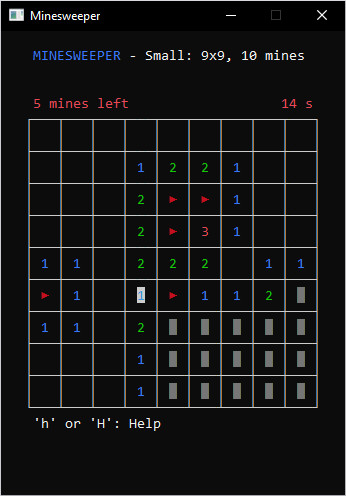
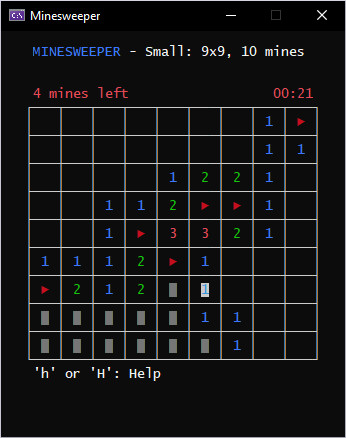
changed format of timer to 00:00

diff --git a/src/game.cpp b/src/game.cpp
@@ -212,20 +212,17 @@ Common::GameModeReturnStruct Game::chooseGamemode()
             if (hasCheated == false && doPauseTimer == false)
             {
                 isTimerPrinting = true;
-                if (timer % 20 == 0 || timer == 0 || doPrintTimer == true)
+                Common::TimeStruct time;
+                time = common.secondsToTimeStruct(timer / 10);
+                if (timer % 10 == 0 || timer == 0 || doPrintTimer == true)
                 {
-                    if (timer / 20 < 10)
-                        common.gotoXY(field->getOffsetX() + (field->getCols() * (((field->getCellWidth() - 1) / 2) * 2 + 2)) - 5, field->getOffsetY() - 2);
-                    else if (timer / 20 < 100)
-                        common.gotoXY(field->getOffsetX() + (field->getCols() * (((field->getCellWidth() - 1) / 2) * 2 + 2)) - 6, field->getOffsetY() - 2);
-                    else
-                        common.gotoXY(field->getOffsetX() + (field->getCols() * (((field->getCellWidth() - 1) / 2) * 2 + 2)) - 7, field->getOffsetY() - 2);
+                    common.gotoXY(field->getOffsetX() + (field->getCols() * (((field->getCellWidth() - 1) / 2) * 2 + 2)) - 7, field->getOffsetY() - 2);
                     std::cout << colors.setTextColor(colors.fg_light_red);
-                    std::cout << timer / 20 << std::flush << " s" << std::flush;
+                    std::cout << time.minutes + ":" + time.seconds << std::flush;
                     std::cout << colors.setTextColor(colors.color_default);
                     doPrintTimer = false;
                 }
-                if (timer < 999 * 20) ++timer;
+                if (! (std::stoi(time.minutes) >= 99 && std::stoi(time.seconds) >= 59)) ++timer;
                 isTimerPrinting = false;
             }
             else if (hasCheated == true && doPauseTimer == false && (isCheatedPrinted == false || doPrintTimer == true))
@@ -239,7 +236,7 @@ Common::GameModeReturnStruct Game::chooseGamemode()
                 isTimerPrinting = false;
                 isCheatedPrinted = true;
             }
-            common.preciseSleep(0.05);
+            common.preciseSleep(0.1);
         }
 
         #if defined(_WIN32) || defined(WIN32) || defined(_WIN64) || defined(WIN64)

diff --git a/src/common.cpp b/src/common.cpp
@@ -334,3 +334,45 @@ void Common::preciseSleep(double seconds)
     auto start = std::chrono::high_resolution_clock::now();
     while ((std::chrono::high_resolution_clock::now() - start).count() / 1e9 < seconds);
 }
+
+Common::TimeStruct Common::secondsToTimeStruct(int seconds)
+{
+    TimeStruct time;
+    if (seconds < 60)
+    {
+        time.minutes = "00";
+        if (seconds < 10)
+        {
+            time.seconds = "0" + std::to_string(seconds);
+        }
+        else
+        {
+            time.seconds = std::to_string(seconds);
+        }
+        return time;
+    }
+    else
+    {
+        if (seconds < 600)
+        {
+            time.minutes = "0" + std::to_string(seconds / 60);
+        }
+        else
+        {
+            time.minutes = std::to_string(seconds / 60);
+        }
+        if (seconds % 60 == 0)
+        {
+            time.seconds = "00";
+        }
+        else if (seconds % 60 < 10)
+        {
+            time.seconds = "0" + std::to_string(seconds % 60);
+        }
+        else
+        {
+            time.seconds = std::to_string(seconds % 60);
+        }
+        return time;
+    }
+}

diff --git a/include/common.hpp b/include/common.hpp
@@ -60,6 +60,11 @@ public:
         bool hasWon = false;
         bool isTurn = false;
     };
+    struct TimeStruct
+    {
+        std::string minutes;
+        std::string seconds;
+    };
 
     // public methods:
     Common();
@@ -86,4 +91,5 @@ public:
     unsigned int coordsToInt(CoordsStruct const&, int const&);
     CoordsStruct coordsToCursorPosition(CoordsStruct const&, int const&, int const&, int const&);
     void preciseSleep(double);
+    TimeStruct secondsToTimeStruct(int);
 };
